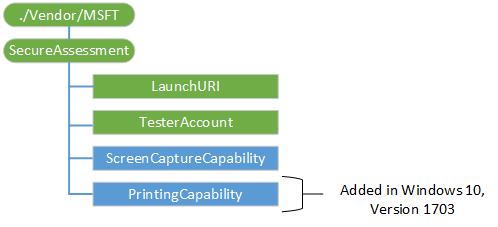
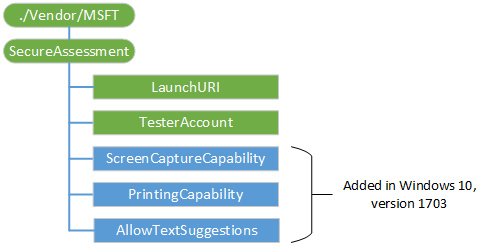
Task 10597222: add AllowTextSuggestions to SecureAssessment CSP, DDF, and graphic

diff --git a/docset/customize/mdm/secureassessment-ddf-file.md b/docset/customize/mdm/secureassessment-ddf-file.md
@@ -97,14 +97,14 @@ This topic shows the OMA DM device description framework (DDF) for the **SecureA
           </DFProperties>
         </Node>
         <Node>
-          <NodeName>ScreenCaptureCapability</NodeName>
+          <NodeName>AllowScreenMonitoring</NodeName>
           <DFProperties>
             <AccessType>
               <Get />
               <Replace />
             </AccessType>
             <DefaultValue>false</DefaultValue>
-            <Description>Indicates if screen capture is allowed by the app.</Description>
+            <Description>Indicates if screen monitoring is allowed by the app.</Description>
             <DFFormat>
               <bool />
             </DFFormat>
@@ -123,14 +123,40 @@ This topic shows the OMA DM device description framework (DDF) for the **SecureA
           </DFProperties>
         </Node>
         <Node>
-          <NodeName>PrintingCapability</NodeName>
+          <NodeName>RequirePrinting</NodeName>
           <DFProperties>
             <AccessType>
               <Get />
               <Replace />
             </AccessType>
             <DefaultValue>false</DefaultValue>
-            <Description>Indicates if printing is allowed by the app.</Description>
+            <Description>Indicates if printing is required by the app.</Description>
+            <DFFormat>
+              <bool />
+            </DFFormat>
+            <Occurrence>
+              <One />
+            </Occurrence>
+            <Scope>
+              <Permanent />
+            </Scope>
+            <CaseSense>
+              <CIS />
+            </CaseSense>
+            <DFType>
+              <MIME>text/plain</MIME>
+            </DFType>
+          </DFProperties>
+        </Node>
+        <Node>
+          <NodeName>AllowTextSuggestions</NodeName>
+          <DFProperties>
+            <AccessType>
+              <Get />
+              <Replace />
+            </AccessType>
+            <DefaultValue>false</DefaultValue>
+            <Description>Indicates if keyboard text suggestions are allowed by the app.</Description>
             <DFFormat>
               <bool />
             </DFFormat>

diff --git a/docset/customize/mdm/secureassessment-csp.md b/docset/customize/mdm/secureassessment-csp.md
@@ -10,7 +10,7 @@ ms.assetid: 6808BE4B-961E-4638-BF15-FD7841D1C00A
 # SecureAssessment CSP
 
 > [!WARNING]
-> Some information relates to prereleased product which may be substantially modified before it's commercially released. Microsoft makes no warranties, express or implied, with respect to the information provided here.  
+> Some information relates to prereleased product, which may be substantially modified before it's commercially released. Microsoft makes no warranties, express or implied, with respect to the information provided here.  
 
 The SecureAssessment configuration service provider is used to provide configuration information for the secure assessment browser.
 
@@ -43,12 +43,16 @@ Added in Windows 10, version 1703. Boolean value that indicates whether screen c
 Supported operations are Get and Replace.
 
 <a href="" id="PrintingCapability"></a>**PrintingCapability**  
-Added in Windows 10, version 1703. Boolean value that indicates whether printing is allowed by the app.  
+Added in Windows 10, version 1703. Boolean value that indicates whether printing is allowed by the app.
+
+Supported operations are Get and Replace.  
+
+<a href="" id="AllowTextSuggestions"></a>**AllowTextSuggestions**  
+Added in Windows 10, version 1703. Boolean value that indicates whether keyboard text suggestions are allowed by the app.  
 
 Supported operations are Get and Replace.
 
 ## Related topics
-
 
 [Configuration service provider reference](configuration-service-provider-reference.md)
 
